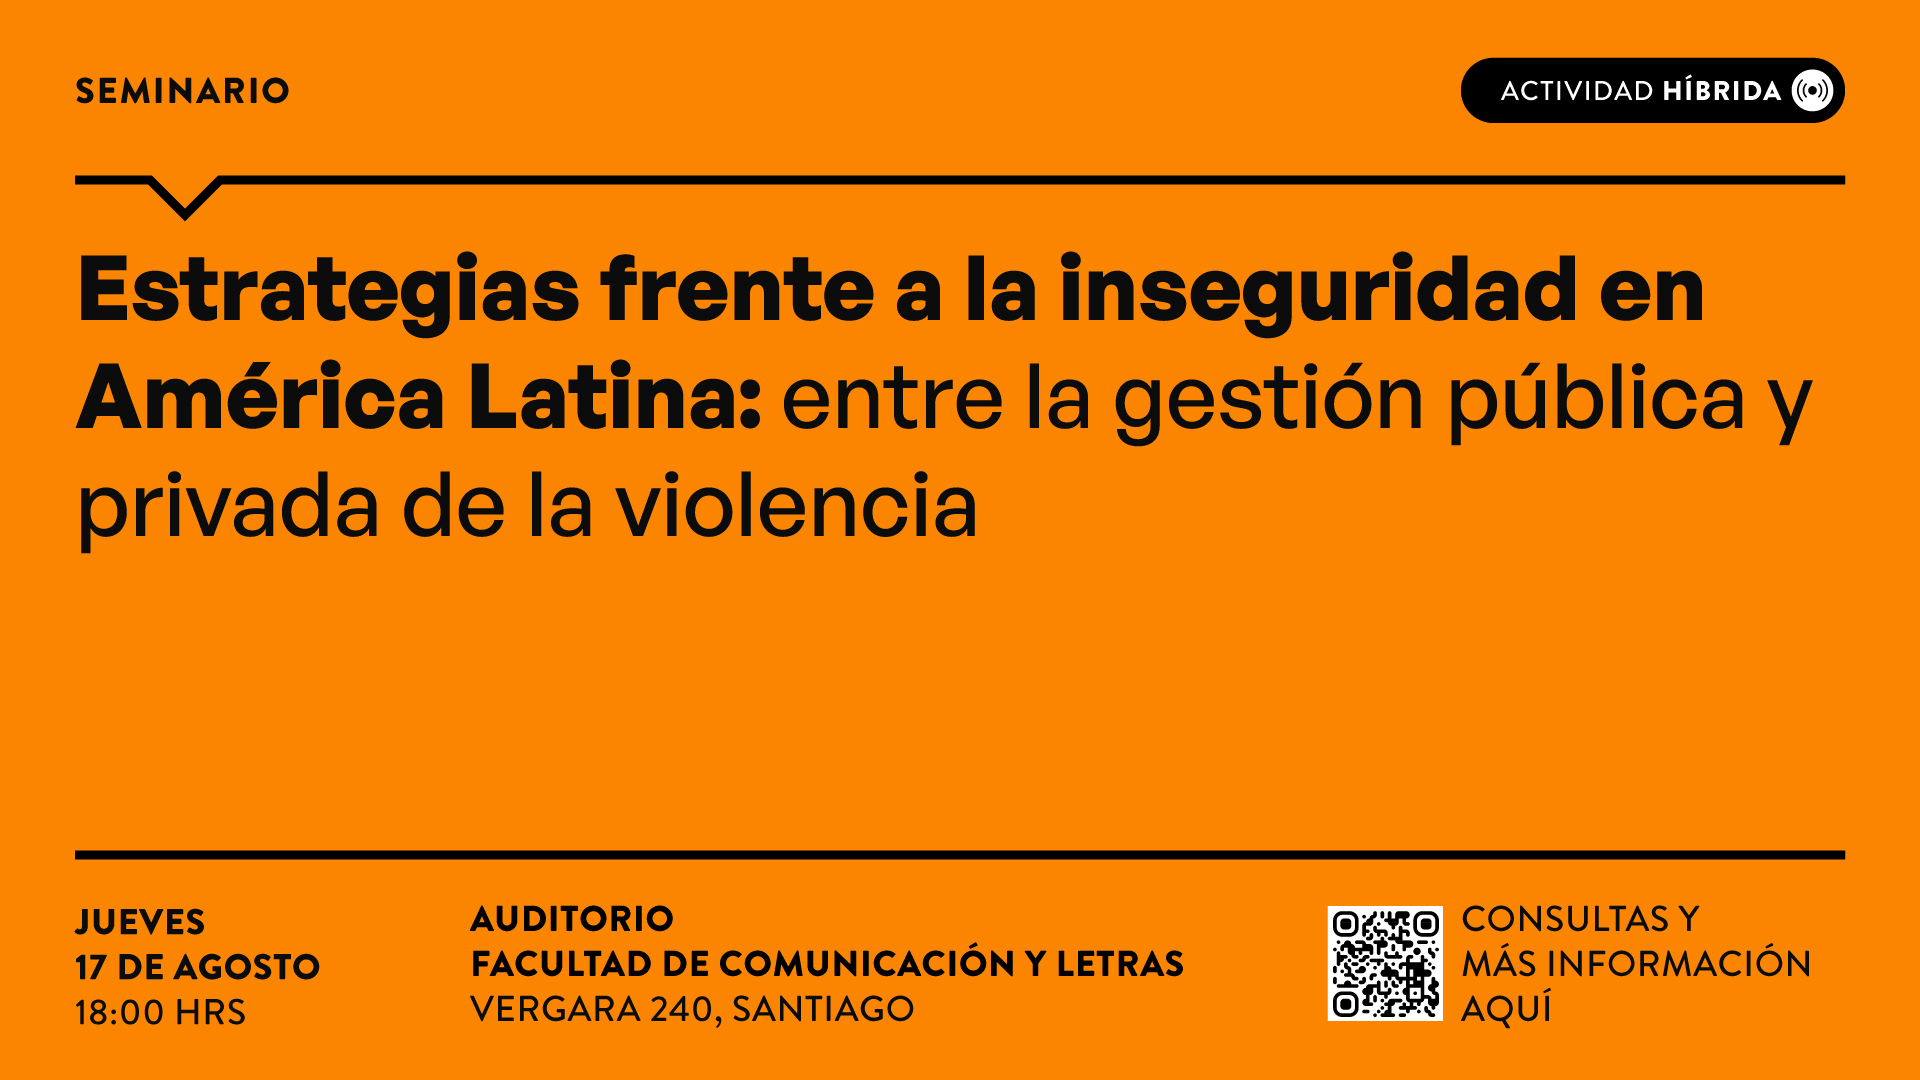
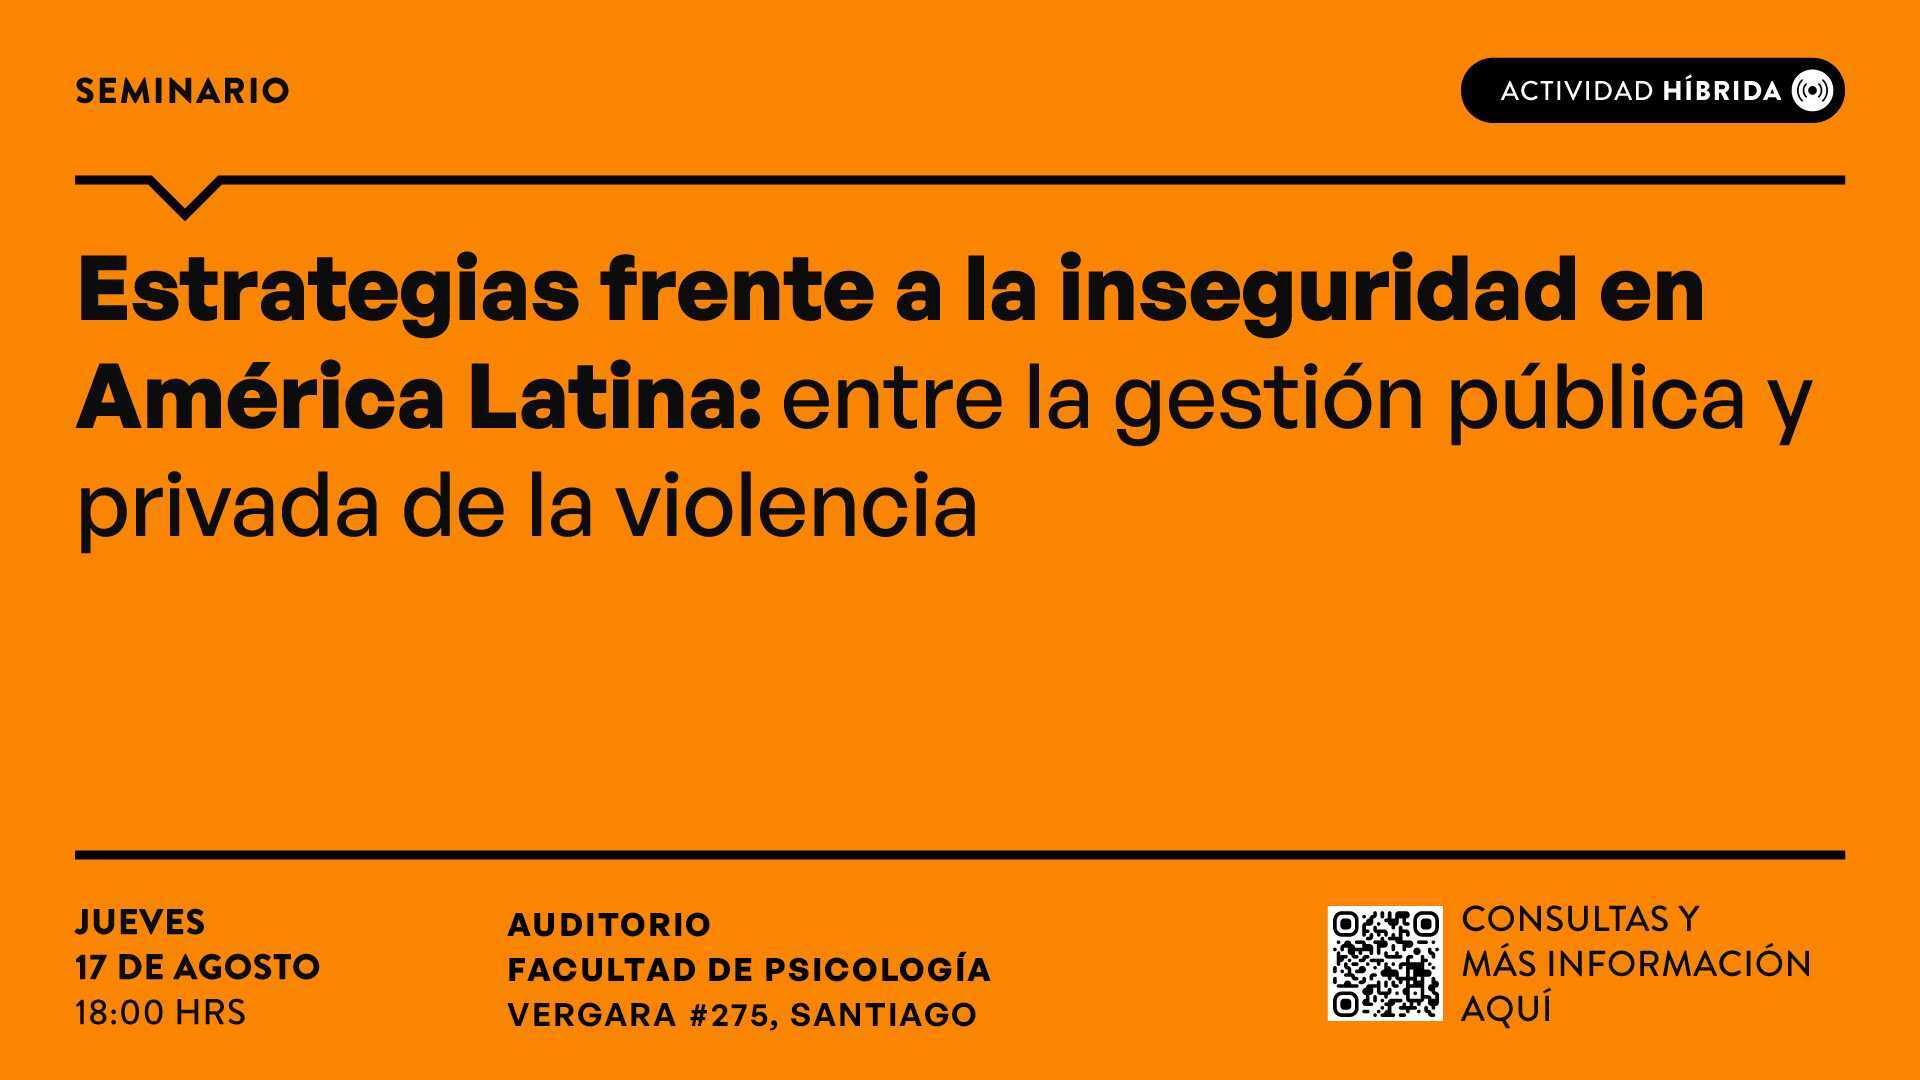
little changes

diff --git a/docs/recents/new_01.html b/docs/recents/new_01.html
@@ -196,7 +196,7 @@ ul.task-list li input[type="checkbox"] {
         <li class="sidebar-item sidebar-item-section">
       <div class="sidebar-item-container"> 
             <a class="sidebar-item-text sidebar-link text-start" data-bs-toggle="collapse" data-bs-target="#quarto-sidebar-section-2" aria-expanded="true">
- <span class="menu-text">Alianzas Organizacionales</span></a>
+ <span class="menu-text">Alianzas</span></a>
           <a class="sidebar-item-toggle text-start" data-bs-toggle="collapse" data-bs-target="#quarto-sidebar-section-2" aria-expanded="true" aria-label="Alternar sección">
             <i class="bi bi-chevron-right ms-2"></i>
           </a> 
@@ -254,7 +254,7 @@ ul.task-list li input[type="checkbox"] {
 <p>Hace un buen tiempo que nuestra organización no contaba con un sitio en internet que le permitiera centralizar sus publicaciones, avisos, convocatorias, e informaciones varias. A partir de hoy, gracias al esfuerzo de las y los integrantes del Comité editorial, esto vuelve a ser posible.</p>
 <p>Antes de volver a la presencialidad, Némesis contaba con una página en dominio pagado, donde se publicaban columnas, reflexiones, entre otras, y se hacían breves aproximaciones al equipo que sostenía la organización. Lamentablemente, por la inactividad intermitente de la revista, se fue apagando este sitio, hasta terminar siendo eliminado. En cambio, se obtuvo un espacio en el portal de revistas digitales de la Universidad de Chile.</p>
 <p>El problema es que este portal está dedicado únicamente al producto final de Némesis, que es el número de la revista. En este espacio no es posible publicar las actividades que llevamos a cabo en el año, y tampoco se puedemostrar en detalle los objetivos de nuestro equipo. Así fue como decidimos emprender rumbo para construir un nuevo lugar que se sintiera cálido y acogedor para nuestra organización y su público.</p>
-<p>Además, este nuevo dominio es gratuito y adscribe a los <strong>principios de ciencia pública</strong> a los que suscribe Némesis, pues fue desarrollada a través del software libre R (principalmente con Quarto Markdown), y su código se encuentra abierto en un repositorio GitHub al cual cualquiera puede acceder. Se espera que esto permita a las y los estudiantes interesados en la reproducibilidad de la investigación a acercarse a conocer la estructura que sostiene la página para que puedan colaborar en su desarrollo.</p>
+<p>Además, este nuevo dominio es gratuito y adscribe a los <strong>principios de ciencia pública</strong> a los que suscribe Némesis, pues fue desarrollada a través del software libre R (principalmente con Quarto Markdown), y su código se encuentra abierto en un <a href="https://github.com/nicolastobarj/nemesis_website">repositorio GitHub</a> Página Web de Revista Estudiantil de Sociología Universidad de Chile (github.com) al cual cualquiera puede acceder. Se espera que esto permita a las y los estudiantes interesados en la reproducibilidad de la investigación a acercarse a conocer la estructura que sostiene la página para que puedan colaborar en su desarrollo.</p>
 <p>Cabe destacar que gran parte de las imágenes que se muestran en la página fueron hechas con la herramienta de Inteligencia Artificial Dall-E 2.</p>
 <p>La página se compone por dos barras. En la barra horizontal que aparece en la parte superior de la pantalla el usuario puede navegar para conocer acerca del proyecto de Némesis, e informarse sobre convocatorias y actividades que estamos llevando a cabo. En la barra vertical se encuentran las publicaciones (divididas por producto) y se anidan otras organizaciones aliadas con Némesis.</p>
 <p>¡Esperamos que puedan disfrutar de la página tal como nosotros lo hicimos al crearla!</p>

diff --git a/docs/recents/new_02.html b/docs/recents/new_02.html
@@ -196,7 +196,7 @@ ul.task-list li input[type="checkbox"] {
         <li class="sidebar-item sidebar-item-section">
       <div class="sidebar-item-container"> 
             <a class="sidebar-item-text sidebar-link text-start" data-bs-toggle="collapse" data-bs-target="#quarto-sidebar-section-2" aria-expanded="true">
- <span class="menu-text">Alianzas Organizacionales</span></a>
+ <span class="menu-text">Alianzas</span></a>
           <a class="sidebar-item-toggle text-start" data-bs-toggle="collapse" data-bs-target="#quarto-sidebar-section-2" aria-expanded="true" aria-label="Alternar sección">
             <i class="bi bi-chevron-right ms-2"></i>
           </a> 
@@ -252,7 +252,7 @@ ul.task-list li input[type="checkbox"] {
   </div>
 </header> <main class="content" id="quarto-document-content">
 <p>Estimades estudiantes</p>
-<p>El Observatorio de violencia y legitimida social en alianza con Némesis se complace de invitarles al Seminario Internacional sobre “Estrategias frente a la inseguridad en América Latina: entre la gestión pública y privada de la violencia”. Este evento se llevará a cabo el jueves 17 de agosto en el Auditorio de comunicaciones de la Universidad Diego Portales, el cual queda ubicado en Vergara 210, Santiago.</p>
+<p>El Observatorio de violencia y legitimida social en alianza con Némesis se complace de invitarles al Seminario Internacional sobre “Estrategias frente a la inseguridad en América Latina: entre la gestión pública y privada de la violencia”. Este evento se llevará a cabo el jueves 17 de agosto en el Auditorio de psicología de la Universidad Diego Portales, el cual queda ubicado en Vergara 275, Santiago.</p>
 <p>Este seminario busca generar un debate académico respecto a las diversas percepciones y respuestas adoptadas por la ciudadanía frente a la problemática de la inseguridad y las percepciones de impunidad en los sistemas de justicia en América Latina, así como examinar las relaciones entre dichas respuestas y las políticas públicas de seguridad fomentadas por los estados en la región. A partir de las presentaciones de destacadas académicas y académicos en la materia, este seminario propone explorar cuestiones más específicas, como las formas de politización de la inseguridad y la victimización, discutir las formas de vigilantismo desde sus expresiones más orgánicas a las más inorgánicas, examinar las tensiones existentes entre los anhelos de dignidad y el enfoque punitivo tras las demandas ciudadanas, identificar las prácticas de cuidado que están emergiendo en la sociedad para enfrentar el crimen y la violencia, así como abordar las complejidades y tensiones tras la creciente legitimidad de la violencia policial en un contexto de creciente miedo al crimen.</p>
 <p>La entrada es gratuita, pero los cupos son limitados, por lo que les pedimos que se registren en los siguientes enlaces, dependiendo de si su asistencia será de forma presencial o en línea:</p>
 <p><a href="https://zoom.us/meeting/register/tJMldu-srzsvE9Due81QsUrvMCCQVLb3wsjm">Online</a></p>

diff --git a/docs/equipo.html b/docs/equipo.html
@@ -183,7 +183,7 @@ ul.task-list li input[type="checkbox"] {
 <p><img src="images/cristobal_albornoz.png" class="img-fluid"></p>
 </div>
 <div class="quarto-layout-cell" style="flex-basis: 50.0%;justify-content: center;">
-<p><img src="images/anonymous_dalle.png" class="img-fluid"></p>
+<p><img src="images/joaquin_capetillo.png" class="img-fluid"></p>
 </div>
 </div>
 <div class="quarto-layout-row quarto-layout-valign-top">
@@ -199,23 +199,25 @@ ul.task-list li input[type="checkbox"] {
 <p><img src="images/mauricio_enc.png" class="img-fluid"></p>
 </div>
 <div class="quarto-layout-cell" style="flex-basis: 50.0%;justify-content: center;">
-<p><img src="images/anonymous_dalle.png" class="img-fluid"></p>
+<p><img src="images/javi_womp.png" class="img-fluid"></p>
 </div>
 </div>
 <div class="quarto-layout-row quarto-layout-valign-top">
 <div class="quarto-layout-cell" style="flex-basis: 50.0%;justify-content: center;">
-<p><strong>Mauricio Encina</strong>. Estudiante de cuarto año de sociología UChile.</p>
+<p><strong>Mauricio Encina</strong>. Estudiante de cuarto año de sociología UChile. Interesado en las teorías de la justicia y en la sociología filosófica del derecho.</p>
 </div>
 <div class="quarto-layout-cell" style="flex-basis: 50.0%;justify-content: center;">
 <p><strong>Javiera Wömpner</strong>. Estudiante del Magíster en Ciencias Sociales UChile.</p>
 </div>
 </div>
-<div class="quarto-layout-row quarto-layout-valign-top">
-<div class="quarto-layout-cell" style="flex-basis: 50.0%;justify-content: center;">
+</div>
+<div class="quarto-layout-panel">
+<div class="quarto-layout-row quarto-layout-valign-center">
+<div class="quarto-layout-cell" style="flex-basis: 40.0%;justify-content: center;">
 <p><img src="images/anonymous_dalle.png" class="img-fluid"></p>
 </div>
-<div class="quarto-layout-cell" style="flex-basis: 50.0%;justify-content: center;">
-<p><strong>Octavio Villarroel</strong>. Estudiante de cuartio año de sociología UChile.</p>
+<div class="quarto-layout-cell" style="flex-basis: 60.0%;justify-content: center;">
+<p><strong>Octavio Villarroel</strong>. Estudiante de cuarto año de sociología UChile.</p>
 </div>
 </div>
 </div>
@@ -240,9 +242,6 @@ ul.task-list li input[type="checkbox"] {
 </div>
 </div>
 </div>
-</section>
-<section id="colaboradores" class="level2">
-<h2 class="anchored" data-anchor-id="colaboradores">Colaboradores</h2>
 
 
 </section>

diff --git a/docs/index.html b/docs/index.html
@@ -265,7 +265,7 @@ ul.task-list li input[type="checkbox"] {
         <li class="sidebar-item sidebar-item-section">
       <div class="sidebar-item-container"> 
             <a class="sidebar-item-text sidebar-link text-start" data-bs-toggle="collapse" data-bs-target="#quarto-sidebar-section-2" aria-expanded="true">
- <span class="menu-text">Alianzas Organizacionales</span></a>
+ <span class="menu-text">Alianzas</span></a>
           <a class="sidebar-item-toggle text-start" data-bs-toggle="collapse" data-bs-target="#quarto-sidebar-section-2" aria-expanded="true" aria-label="Alternar sección">
             <i class="bi bi-chevron-right ms-2"></i>
           </a> 
@@ -317,7 +317,7 @@ ul.task-list li input[type="checkbox"] {
 <h2 data-anchor-id="noticias-y-actividades-recientes">Noticias y actividades recientes</h2>
 <div id="listing-recents" class="quarto-listing quarto-listing-container-grid">
 <div class="list grid quarto-listing-cols-3">
-<div class="g-col-1" data-index="0" data-categories="Evento" data-listing-date-sort="1692244800000" data-listing-file-modified-sort="1691701677654" data-listing-date-modified-sort="NaN" data-listing-reading-time-sort="2">
+<div class="g-col-1" data-index="0" data-categories="Evento" data-listing-date-sort="1692244800000" data-listing-file-modified-sort="1691947269021" data-listing-date-modified-sort="NaN" data-listing-reading-time-sort="2">
 <a href="./recents/new_02.html" class="quarto-grid-link">
 <div class="quarto-grid-item card h-100 card-left">
 <p class="card-img-top">
@@ -344,7 +344,7 @@ Evento
 </div>
 </a>
 </div>
-<div class="g-col-1" data-index="1" data-categories="Noticia" data-listing-date-sort="1692158400000" data-listing-file-modified-sort="1691701664371" data-listing-date-modified-sort="NaN" data-listing-reading-time-sort="2">
+<div class="g-col-1" data-index="1" data-categories="Noticia" data-listing-date-sort="1692158400000" data-listing-file-modified-sort="1691947146484" data-listing-date-modified-sort="NaN" data-listing-reading-time-sort="2">
 <a href="./recents/new_01.html" class="quarto-grid-link">
 <div class="quarto-grid-item card h-100 card-left">
 <p class="card-img-top">

diff --git a/docs/recents.html b/docs/recents.html
@@ -230,7 +230,7 @@ ul.task-list li input[type="checkbox"] {
         <li class="sidebar-item sidebar-item-section">
       <div class="sidebar-item-container"> 
             <a class="sidebar-item-text sidebar-link text-start" data-bs-toggle="collapse" data-bs-target="#quarto-sidebar-section-2" aria-expanded="true">
- <span class="menu-text">Alianzas Organizacionales</span></a>
+ <span class="menu-text">Alianzas</span></a>
           <a class="sidebar-item-toggle text-start" data-bs-toggle="collapse" data-bs-target="#quarto-sidebar-section-2" aria-expanded="true" aria-label="Alternar sección">
             <i class="bi bi-chevron-right ms-2"></i>
           </a> 
@@ -297,7 +297,7 @@ ul.task-list li input[type="checkbox"] {
     </div>
 </div>
 <div class="list quarto-listing-default">
-<div class="quarto-post image-right" data-index="0" data-categories="Evento" data-listing-date-sort="1692244800000" data-listing-file-modified-sort="1691701677654" data-listing-date-modified-sort="NaN" data-listing-reading-time-sort="2">
+<div class="quarto-post image-right" data-index="0" data-categories="Evento" data-listing-date-sort="1692244800000" data-listing-file-modified-sort="1691947269021" data-listing-date-modified-sort="NaN" data-listing-reading-time-sort="2">
 <div class="thumbnail">
 <p><a href="./recents/new_02.html"> <img src="./images/new_02.jpg" class="thumbnail-image" style="height: 10.0rem;"> </a></p>
 </div>
@@ -328,7 +328,7 @@ Evento
 </a>
 </div>
 </div>
-<div class="quarto-post image-right" data-index="1" data-categories="Noticia" data-listing-date-sort="1692158400000" data-listing-file-modified-sort="1691701664371" data-listing-date-modified-sort="NaN" data-listing-reading-time-sort="2">
+<div class="quarto-post image-right" data-index="1" data-categories="Noticia" data-listing-date-sort="1692158400000" data-listing-file-modified-sort="1691947146484" data-listing-date-modified-sort="NaN" data-listing-reading-time-sort="2">
 <div class="thumbnail">
 <p><a href="./recents/new_01.html"> <img src="./images/new_01.jpeg" class="thumbnail-image" style="height: 10.0rem;"> </a></p>
 </div>

diff --git a/docs/convocatorias.html b/docs/convocatorias.html
@@ -197,7 +197,7 @@ ul.task-list li input[type="checkbox"] {
         <li class="sidebar-item sidebar-item-section">
       <div class="sidebar-item-container"> 
             <a class="sidebar-item-text sidebar-link text-start" data-bs-toggle="collapse" data-bs-target="#quarto-sidebar-section-2" aria-expanded="true">
- <span class="menu-text">Alianzas Organizacionales</span></a>
+ <span class="menu-text">Alianzas</span></a>
           <a class="sidebar-item-toggle text-start" data-bs-toggle="collapse" data-bs-target="#quarto-sidebar-section-2" aria-expanded="true" aria-label="Alternar sección">
             <i class="bi bi-chevron-right ms-2"></i>
           </a> 

diff --git a/docs/organizacion.html b/docs/organizacion.html
@@ -200,7 +200,7 @@ ul.task-list li input[type="checkbox"] {
         <li class="sidebar-item sidebar-item-section">
       <div class="sidebar-item-container"> 
             <a class="sidebar-item-text sidebar-link text-start" data-bs-toggle="collapse" data-bs-target="#quarto-sidebar-section-2" aria-expanded="true">
- <span class="menu-text">Alianzas Organizacionales</span></a>
+ <span class="menu-text">Alianzas</span></a>
           <a class="sidebar-item-toggle text-start" data-bs-toggle="collapse" data-bs-target="#quarto-sidebar-section-2" aria-expanded="true" aria-label="Alternar sección">
             <i class="bi bi-chevron-right ms-2"></i>
           </a> 

diff --git a/docs/product/coloquios.html b/docs/product/coloquios.html
@@ -230,7 +230,7 @@ ul.task-list li input[type="checkbox"] {
         <li class="sidebar-item sidebar-item-section">
       <div class="sidebar-item-container"> 
             <a class="sidebar-item-text sidebar-link text-start" data-bs-toggle="collapse" data-bs-target="#quarto-sidebar-section-2" aria-expanded="true">
- <span class="menu-text">Alianzas Organizacionales</span></a>
+ <span class="menu-text">Alianzas</span></a>
           <a class="sidebar-item-toggle text-start" data-bs-toggle="collapse" data-bs-target="#quarto-sidebar-section-2" aria-expanded="true" aria-label="Alternar sección">
             <i class="bi bi-chevron-right ms-2"></i>
           </a> 

diff --git a/docs/product/columnas.html b/docs/product/columnas.html
@@ -230,7 +230,7 @@ ul.task-list li input[type="checkbox"] {
         <li class="sidebar-item sidebar-item-section">
       <div class="sidebar-item-container"> 
             <a class="sidebar-item-text sidebar-link text-start" data-bs-toggle="collapse" data-bs-target="#quarto-sidebar-section-2" aria-expanded="true">
- <span class="menu-text">Alianzas Organizacionales</span></a>
+ <span class="menu-text">Alianzas</span></a>
           <a class="sidebar-item-toggle text-start" data-bs-toggle="collapse" data-bs-target="#quarto-sidebar-section-2" aria-expanded="true" aria-label="Alternar sección">
             <i class="bi bi-chevron-right ms-2"></i>
           </a> 

diff --git a/docs/product/comentarios.html b/docs/product/comentarios.html
@@ -230,7 +230,7 @@ ul.task-list li input[type="checkbox"] {
         <li class="sidebar-item sidebar-item-section">
       <div class="sidebar-item-container"> 
             <a class="sidebar-item-text sidebar-link text-start" data-bs-toggle="collapse" data-bs-target="#quarto-sidebar-section-2" aria-expanded="true">
- <span class="menu-text">Alianzas Organizacionales</span></a>
+ <span class="menu-text">Alianzas</span></a>
           <a class="sidebar-item-toggle text-start" data-bs-toggle="collapse" data-bs-target="#quarto-sidebar-section-2" aria-expanded="true" aria-label="Alternar sección">
             <i class="bi bi-chevron-right ms-2"></i>
           </a> 

diff --git a/docs/product/comentarios/com_bib_01.html b/docs/product/comentarios/com_bib_01.html
@@ -198,7 +198,7 @@ ul.task-list li input[type="checkbox"] {
         <li class="sidebar-item sidebar-item-section">
       <div class="sidebar-item-container"> 
             <a class="sidebar-item-text sidebar-link text-start" data-bs-toggle="collapse" data-bs-target="#quarto-sidebar-section-2" aria-expanded="true">
- <span class="menu-text">Alianzas Organizacionales</span></a>
+ <span class="menu-text">Alianzas</span></a>
           <a class="sidebar-item-toggle text-start" data-bs-toggle="collapse" data-bs-target="#quarto-sidebar-section-2" aria-expanded="true" aria-label="Alternar sección">
             <i class="bi bi-chevron-right ms-2"></i>
           </a> 

diff --git a/docs/product/comentarios/com_bib_02.html b/docs/product/comentarios/com_bib_02.html
@@ -198,7 +198,7 @@ ul.task-list li input[type="checkbox"] {
         <li class="sidebar-item sidebar-item-section">
       <div class="sidebar-item-container"> 
             <a class="sidebar-item-text sidebar-link text-start" data-bs-toggle="collapse" data-bs-target="#quarto-sidebar-section-2" aria-expanded="true">
- <span class="menu-text">Alianzas Organizacionales</span></a>
+ <span class="menu-text">Alianzas</span></a>
           <a class="sidebar-item-toggle text-start" data-bs-toggle="collapse" data-bs-target="#quarto-sidebar-section-2" aria-expanded="true" aria-label="Alternar sección">
             <i class="bi bi-chevron-right ms-2"></i>
           </a> 
